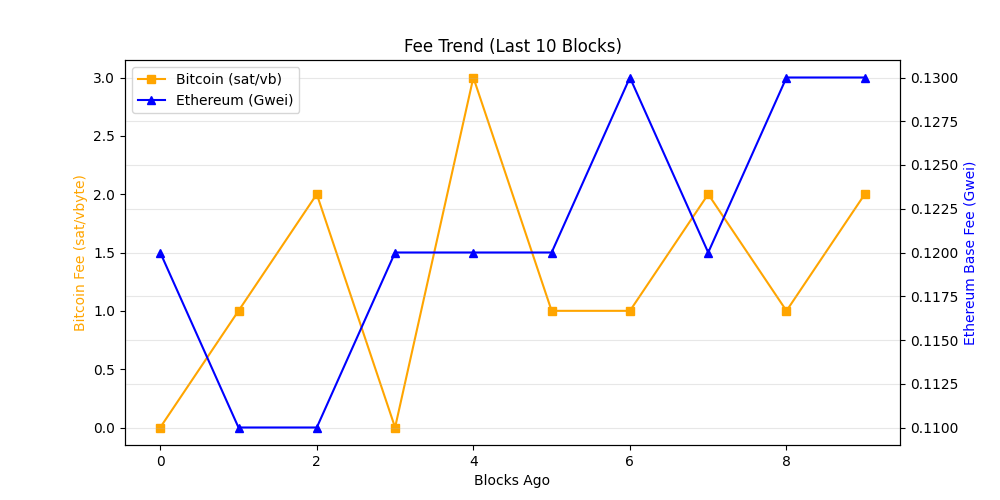
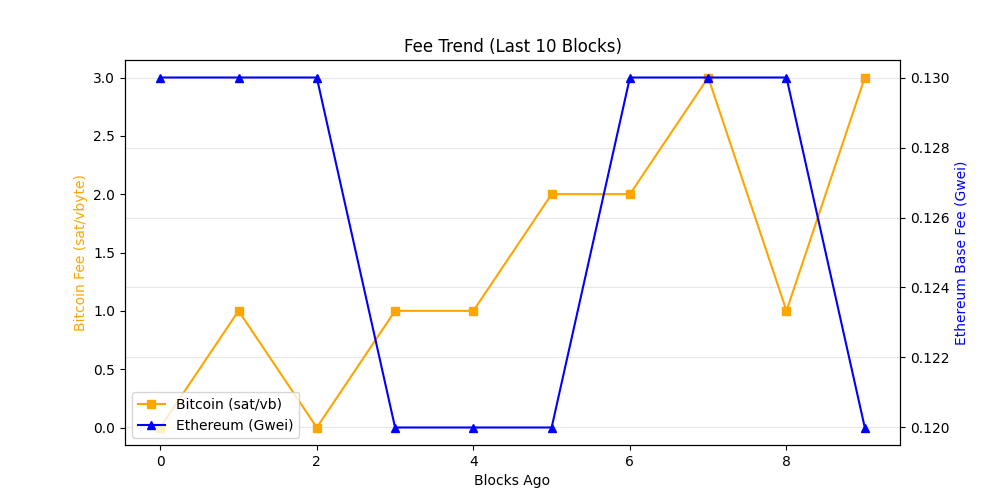
chore: update on-chain dashboard

diff --git a/README.md b/README.md
@@ -19,7 +19,7 @@ The README itself acts as the dashboard and is regenerated automatically on a 6 
 demonstrating a production-style, infrastructure-focused observability workflow rather
 than a traditional UI-driven approach.
 
-_Last updated: 2026-08-25 07:06 UTC_
+_Last updated: 2026-08-25 13:09 UTC_
 
 ## API Usage (GetBlock.io)
 - Calls used: **24**
@@ -27,8 +27,8 @@ _Last updated: 2026-08-25 07:06 UTC_
 ## Network Metrics
 | Chain | Block Height | TX Count | TPS (10 blk avg) | Block Util | Avg Fee |
 |------|-------------|----------|------------------|------------|---------|
-| Ethereum | 25830609 | 121 | 10.08 | 10.1% | 0.1 Gwei |
-| Bitcoin | 963966 | 4709 | 4.63 | 99.8% | N/A |
+| Ethereum | 25832419 | 112 | 9.33 | 11.0% | 0.1 Gwei |
+| Bitcoin | 964003 | 4253 | 2.28 | 99.8% | N/A |
 
 ## Visuals
 ### Transactions Trend
@@ -43,11 +43,11 @@ _Last updated: 2026-08-25 07:06 UTC_
 ## Whale Alerts (latest block)
 - Transaction hashes are truncated for readability.
 - Full hashes are available in `dashboards/metrics.json`
-- Bitcoin | 164.57 BTC | `b417d9b634c7…`
-- Bitcoin | 125.0 BTC | `52ecae89b4f0…`
-- Bitcoin | 199.93 BTC | `bafa1e92bd89…`
-- Bitcoin | 1185.73 BTC | `9444ad6e7526…`
-- Bitcoin | 178.56 BTC | `e99ac60a2fe6…`
+- Bitcoin | 174.62 BTC | `b6e1f4b8d3ba…`
+- Bitcoin | 130.0 BTC | `55a51a6b8044…`
+- Bitcoin | 607.03 BTC | `b1b3b71fca8a…`
+- Bitcoin | 186.16 BTC | `2a37fc721667…`
+- Bitcoin | 113.09 BTC | `b9a50bd8e846…`
 
 ## Run locally
 
